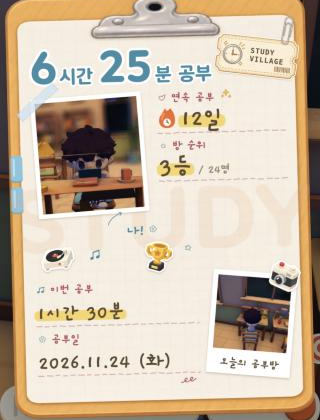
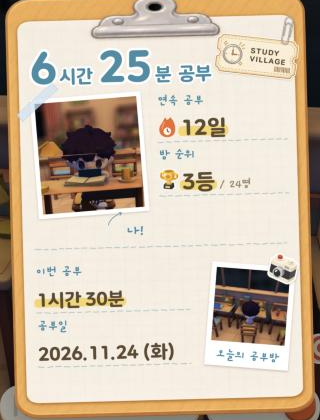
feat(web/study): tidy the study sheet to two fonts and three colors
Feedback said the sheet looked pretty but scattered. It now follows
three rules: round type for numbers and handwriting for labels only;
ink for data, teal for handwriting and decoration, sun highlight under
numbers; and only meaningful decoration (photo tape, ticket and clip,
polaroid camera, the arrow, the rank trophy). Floating stickers,
doodles, the watermark and index tabs are removed, and a hand-drawn
rule splits the top block (photo, streak, rank) from the bottom block
(session, date, polaroid). Unused doodle files are deleted.

diff --git a/frontend/src/feature/study/recap/cardDraw.ts b/frontend/src/feature/study/recap/cardDraw.ts
@@ -24,8 +24,6 @@ const c = {
   lake: '#609baf', lakePattern: '#528ba0', title: '#3e8da6',
   sun: '#f8d66a', sunLedge: '#d9b246', onSun: '#5e4a32',
   white: '#ffffff',
-  /** 손글씨 라벨·낙서 장미색, 워터마크, 인덱스 탭. */
-  rose: '#b4505f', watermark: 'rgba(233,170,120,0.16)', tab: '#86c6de', tabEdge: '#5ea9c6',
 } as const
 
 const fonts = {
@@ -33,7 +31,6 @@ const fonts = {
   round: '"TmoneyRoundWind", "Pretendard Variable", sans-serif',
   /** 손글씨(Gaegu, OFL): 라벨·값·메모. */
   hand: '"Gaegu", "Pretendard Variable", sans-serif',
-  mono: 'ui-monospace, "SF Mono", Menlo, Consolas, monospace',
 } as const
 
 /** 시트(논리 pt) = 클립보드 일러스트(1200×1686)를 3분의 1로. 종이는 x 16–384, y 32–540, 집게는 y 59까지 내려온다. */
@@ -44,19 +41,11 @@ export const sceneSize = { width: 98, height: 98 } as const
 
 const stickerUrls = {
   trophy: '/assets/icons/study_trophy.png',
-  focus: '/assets/icons/study_focus.png',
-  music: '/assets/icons/study_music.png',
   camera: '/assets/icons/study_camera.png',
   clipboard: '/assets/study_recap/clipboard.webp',
   ticket: '/assets/study_recap/ticket.webp',
   paperclip: '/assets/study_recap/paperclip.webp',
   tape: '/assets/study_recap/tape.webp',
-  heart: '/assets/study_recap/doodle_heart.webp',
-  star: '/assets/study_recap/doodle_star.webp',
-  note: '/assets/study_recap/doodle_note.webp',
-  flower: '/assets/study_recap/doodle_flower.webp',
-  sparkle: '/assets/study_recap/doodle_sparkle.webp',
-  scribble: '/assets/study_recap/doodle_scribble.webp',
   arrow: '/assets/study_recap/doodle_arrow.webp',
 } as const
 export type CardAssets = Record<keyof typeof stickerUrls, HTMLImageElement>
@@ -66,7 +55,7 @@ export async function loadCardAssets(recap: StudyRecap): Promise<CardAssets> {
   const sample = [
     webText.recapMe, webText.recapTimeSuffix, webText.recapScene, ...Object.values(webText.recapFields),
     formatStudyDuration(recap.todaySeconds), formatStudyDuration(recap.sessionSeconds), webText.recapBrand,
-    '0123456789.·/!()시간분일등명월화수목금토일STUDY',
+    '0123456789.·/!()시간분일등명월화수목금토일',
   ].join('')
   const load = (src: string) => new Promise<HTMLImageElement>((resolve, reject) => {
     const img = new Image()
@@ -93,31 +82,16 @@ function dateText(studyDate: string): string {
 // ── 시트 ──
 
 export function drawSheet(ctx: CanvasRenderingContext2D, recap: StudyRecap, assets: CardAssets): void {
-  // 클립보드(판·종이·집게) 일러스트, 왼쪽 가장자리 인덱스 탭, 종이 뒤쪽 큰 워터마크.
+  // 규칙 셋(사용자 피드백 2026-11-24 "중구난방"): 글꼴은 숫자=둥근 글꼴, 라벨·메모=손글씨 둘만. 색은 데이터=잉크 갈색,
+  // 손글씨·장식=청록, 강조=숫자 밑 햇살 형광펜 셋만. 장식은 뜻이 있는 것(테이프·티켓 클립·폴라로이드 카메라·화살표·
+  // 순위 트로피)만. 위 칸(사진 + 연속·순위)과 아래 칸(이번 공부·공부일 + 폴라로이드)을 손그림 구분선으로 나눈다.
   ctx.drawImage(assets.clipboard, 0, 0, sheet.width, sheet.height)
-  indexTabs(ctx)
-  ctx.save()
-  ctx.font = `800 112px ${fonts.round}`
-  ctx.textAlign = 'center'
-  ctx.fillStyle = c.watermark
-  ctx.fillText(webText.recapWatermark, 200, 338)
-  ctx.restore()
-
-  // 제목 자리: 오늘 공부한 시간을 가장 크게(둥근 글꼴 호수 청록 + 흰 테두리, 숫자 크게·단위 작게). 집게 아래.
   titleDuration(ctx, recap.todaySeconds, 152, 114, 244)
-
   drawTicket(ctx, assets, 334, 86)
   drawPortrait(ctx, recap, assets)
   drawTopRows(ctx, recap, assets)
-  sticker(ctx, assets.music, 62, 350, 46, -14)
-  if (recap.rank) sticker(ctx, assets.trophy, 196, 350, 42, 10)
-  else sticker(ctx, assets.focus, 196, 352, 38, 10)
-  // 빈자리 손그림 낙서.
-  doodle(ctx, assets.sparkle, 292, 134, 26, 0)
-  doodle(ctx, assets.note, 112, 344, 24, -8)
-  doodle(ctx, assets.star, 236, 338, 22, 12)
-  doodle(ctx, assets.scribble, 232, 514, 30, -4)
-  drawBottomRows(ctx, recap, assets)
+  handDash(ctx, 32, 368, 336, 3)
+  drawBottomRows(ctx, recap)
   drawPolaroid(ctx, recap, assets)
 }
 
@@ -130,8 +104,8 @@ function drawTicket(ctx: CanvasRenderingContext2D, assets: CardAssets, cx: numbe
   ctx.shadowColor = 'rgba(90,55,20,0.22)'; ctx.shadowBlur = 5; ctx.shadowOffsetY = 2
   ctx.drawImage(assets.ticket, -w / 2, -h / 2, w, h)
   ctx.shadowColor = 'transparent'
-  text(ctx, 'STUDY', -w / 2 + w * 0.42, -4, { font: `800 9.5px ${fonts.mono}`, color: c.ink, spacing: 0.8 })
-  text(ctx, 'VILLAGE', -w / 2 + w * 0.42, 7, { font: `800 9.5px ${fonts.mono}`, color: c.ink, spacing: 0.8 })
+  text(ctx, 'STUDY', -w / 2 + w * 0.42, -4, { font: `800 9.5px ${fonts.round}`, color: c.ink, spacing: 0.8 })
+  text(ctx, 'VILLAGE', -w / 2 + w * 0.42, 7, { font: `800 9.5px ${fonts.round}`, color: c.ink, spacing: 0.8 })
   ctx.restore()
   const pw = 18
   ctx.save()
@@ -164,17 +138,15 @@ function drawPortrait(ctx: CanvasRenderingContext2D, recap: StudyRecap, assets: 
   ctx.drawImage(assets.arrow, -13, -13, 26, 26)
   ctx.restore()
   text(ctx, webText.recapMe, cx + 46, by + 28, { font: `700 21px ${fonts.hand}`, color: c.title })
-  doodle(ctx, assets.flower, cx + 82, by + 20, 18, 10)
 }
 
-type Row = { label: string; icon: HTMLImageElement; draw: (x: number, base: number, maxW: number) => void }
+type Row = { label: string; draw: (x: number, base: number, maxW: number) => void }
 
-/** 큰 항목 한 묶음: 낙서 아이콘 + 손글씨 라벨(장미색, 위) → 값(크게, 아래) → 손으로 그은 점선. */
+/** 큰 항목 한 묶음: 손글씨 라벨(청록, 위) → 값(둥근 글꼴 크게, 아래) → 손으로 그은 점선. */
 function rows(ctx: CanvasRenderingContext2D, list: Row[], x: number, right: number, startY: number, rowH: number) {
   list.forEach((r, i) => {
     const y = startY + i * rowH
-    ctx.drawImage(r.icon, x - 2, y + 1, 17, 17)
-    text(ctx, r.label, x + 18, y + 15, { font: `700 17px ${fonts.hand}`, color: c.rose })
+    text(ctx, r.label, x, y + 15, { font: `700 18px ${fonts.hand}`, color: c.title })
     const base = y + rowH - 16
     r.draw(x, base, right - x)
     handDash(ctx, x, right, base + 9, i * 7 + Math.round(startY))
@@ -186,7 +158,7 @@ function handDash(ctx: CanvasRenderingContext2D, x0: number, x1: number, y: numb
   let a = seed * 2654435761 >>> 0
   const rand = () => { a = (a * 1103515245 + 12345) >>> 0; return a / 4294967296 }
   ctx.save()
-  ctx.strokeStyle = 'rgba(180,80,95,0.42)'; ctx.lineWidth = 1.3; ctx.lineCap = 'round'
+  ctx.strokeStyle = 'rgba(62,141,166,0.38)'; ctx.lineWidth = 1.3; ctx.lineCap = 'round'
   let x = x0
   while (x < x1) {
     const len = 5 + rand() * 3
@@ -198,39 +170,40 @@ function handDash(ctx: CanvasRenderingContext2D, x0: number, x1: number, y: numb
 }
 
 function drawTopRows(ctx: CanvasRenderingContext2D, recap: StudyRecap, assets: CardAssets) {
-  const big = `700 34px ${fonts.hand}`
+  const big = `800 28px ${fonts.round}`
   const list: Row[] = [
-    { label: webText.recapFields.streak, icon: assets.heart, draw: (x, b) => {
+    { label: webText.recapFields.streak, draw: (x, b) => {
       flame(ctx, x, b - 25, 28, recap.streakDays > 0)
       highlight(ctx, t('studyStatsStreakValue', { count: recap.streakDays }), x + 30, b, big, recap.streakDays > 0 ? c.ink : c.inkSoft)
     } },
   ]
   if (recap.rank) {
     const rank = recap.rank
-    list.push({ label: webText.recapFields.rank, icon: assets.star, draw: (x, b) => {
+    list.push({ label: webText.recapFields.rank, draw: (x, b) => {
+      ctx.drawImage(assets.trophy, x - 2, b - 28, 30, 30)
       const num = `${rank.position}${webText.recapRankUnit}`
-      highlight(ctx, num, x, b, big)
-      text(ctx, webText.recapRankTotal(rank.total), x + measure(ctx, num, big) + 8, b, { font: `700 17px ${fonts.hand}`, color: c.inkSoft })
+      highlight(ctx, num, x + 30, b, big)
+      text(ctx, webText.recapRankTotal(rank.total), x + 30 + measure(ctx, num, big) + 6, b, { font: `700 17px ${fonts.hand}`, color: c.inkSoft })
     } })
   }
-  rows(ctx, list, 200, 372, 128, 64)
+  rows(ctx, list, 200, 372, 132, 72)
 }
 
-function drawBottomRows(ctx: CanvasRenderingContext2D, recap: StudyRecap, assets: CardAssets) {
-  const font = `700 28px ${fonts.hand}`
+function drawBottomRows(ctx: CanvasRenderingContext2D, recap: StudyRecap) {
+  const font = `800 24px ${fonts.round}`
   const list: Row[] = [
-    { label: webText.recapFields.session, icon: assets.note, draw: (x, b) => highlight(ctx, formatStudyDuration(recap.sessionSeconds), x, b, font) },
-    { label: webText.recapFields.date, icon: assets.flower, draw: (x, b, w) => text(ctx, ellipsize(ctx, dateText(recap.studyDate), font, w), x, b, { font, color: c.ink }) },
+    { label: webText.recapFields.session, draw: (x, b) => highlight(ctx, formatStudyDuration(recap.sessionSeconds), x, b, font) },
+    { label: webText.recapFields.date, draw: (x, b, w) => text(ctx, ellipsize(ctx, dateText(recap.studyDate), font, w), x, b, { font, color: c.ink }) },
   ]
-  rows(ctx, list, 32, 248, 380, 66)
+  rows(ctx, list, 32, 236, 356, 72)
 }
 
 /** 폴라로이드: 3인칭으로 본 오늘의 공부방, 아래 여백에 글씨, 카메라 스티커. */
 function drawPolaroid(ctx: CanvasRenderingContext2D, recap: StudyRecap, assets: CardAssets) {
   const w = sceneSize.width + 14
   const h = sceneSize.height + 40
-  const cx = 318
-  const cy = 442
+  const cx = 316
+  const cy = 432
   ctx.save()
   ctx.translate(cx, cy); ctx.rotate((6 * Math.PI) / 180)
   ctx.save()
@@ -239,7 +212,7 @@ function drawPolaroid(ctx: CanvasRenderingContext2D, recap: StudyRecap, assets: 
   ctx.fillRect(-w / 2, -h / 2, w, h)
   ctx.restore()
   photo(ctx, recap.scenePhoto, -sceneSize.width / 2, -h / 2 + 7, sceneSize.width, sceneSize.height)
-  text(ctx, webText.recapScene, 0, h / 2 - 11, { font: `700 16px ${fonts.hand}`, color: c.ink, align: 'center' })
+  text(ctx, webText.recapScene, 0, h / 2 - 11, { font: `700 17px ${fonts.hand}`, color: c.title, align: 'center' })
   ctx.restore()
   sticker(ctx, assets.camera, cx + 46, cy - 62, 40, 14)
 }
@@ -343,26 +316,6 @@ function sticker(ctx: CanvasRenderingContext2D, img: HTMLImageElement, cx: numbe
   ctx.shadowColor = 'rgba(90,55,20,0.25)'; ctx.shadowBlur = 6; ctx.shadowOffsetY = 3
   ctx.drawImage(img, -size / 2, -size / 2, size, size)
   ctx.restore()
-}
-
-/** 손그림 낙서를 기울여 얹는다(그림자 없음: 종이에 그린 것). */
-function doodle(ctx: CanvasRenderingContext2D, img: HTMLImageElement, cx: number, cy: number, size: number, deg: number) {
-  ctx.save()
-  ctx.translate(cx, cy); ctx.rotate((deg * Math.PI) / 180)
-  ctx.drawImage(img, -size / 2, -size / 2, size, size)
-  ctx.restore()
-}
-
-/** 판 왼쪽 가장자리의 하늘색 인덱스 탭 두 개(종이 아래에 끼운 느낌으로 판 위에만). */
-function indexTabs(ctx: CanvasRenderingContext2D) {
-  for (const y of [210, 252]) {
-    ctx.fillStyle = c.tabEdge
-    ctx.beginPath(); ctx.roundRect(2, y + 2, 16, 34, 5); ctx.fill()
-    ctx.fillStyle = c.tab
-    ctx.beginPath(); ctx.roundRect(2, y, 16, 34, 5); ctx.fill()
-    ctx.fillStyle = 'rgba(255,255,255,0.45)'
-    ctx.beginPath(); ctx.roundRect(5, y + 4, 3, 24, 1.5); ctx.fill()
-  }
 }
 
 /** 마스킹 테이프 일러스트를 기울여 붙인다. */

diff --git a/frontend/src/l10n/web_ko.ts b/frontend/src/l10n/web_ko.ts
@@ -30,7 +30,6 @@ export const webText = {
   // 공부를 끝낸 뒤 "오늘의 공부" 시트(앱에 없는 화면, 사용자 결정 2026-11-23).
   recapMe: '나!',
   recapTimeSuffix: '공부',
-  recapWatermark: 'STUDY',
   recapScene: '오늘의 공부방',
   recapFields: {
     streak: '연속 공부',

diff --git a/docs/design-parity/exceptions.md b/docs/design-parity/exceptions.md
@@ -22,6 +22,6 @@
 - **3D 방 부드러운 룩(기본)**: 셀 셰이딩 단 대신 넓은 감싸기 조명(빛 쪽 크림·그늘 쪽 라벤더)과 반구 조명, 화면 공간 접촉 그늘(½ 해상도 8탭, 높은 단계만), 그 자리 색을 어둡게 한 외곽선, 파스텔 보정(생기·부드러운 어깨·분할 톤). 예전 카툰 룩은 `?look=toon`, 앱 그림은 `?look=app`. 비교: `room_v2/soft_look_vs_toon.jpg`. 감성 보강(같은 날): 창밖 하늘에서 모은 빛줄기(½ 해상도 40탭, 높은 단계만), 먼 곳 공기 원근(위 하늘빛·아래 크림), 살구빛 할레이션, 오른쪽 위 빛샘, 비네트 0.18. `room_v2/mood_pass.jpg`(이전 / 오후 16시 / 밤). 개발 빌드는 `?hour=16`으로 시각을 고정해 본다. 사용자 결정(2026-11-23 "셰이더 대격변").
 - **3D 방 선명한 룩(기본, 같은 날 교체)**: 사용자 참고 이미지(게임 아트 거리)를 따라 따뜻한 해·푸른 그늘의 좁고 부드러운 조명 경계, 채도 +22%·S 곡선 대비, 그늘 푸름·빛 따뜻함 분할 톤, 푸른 접촉 그늘, 아주 옅은 색 외곽선, 공기·빛샘·빛줄기·그레인 없음, 비네트 0.12. 몽환 파스텔은 `?look=soft`. 비교: `room_v2/vivid_look.jpg`(soft 오후 / vivid 오후 / vivid 밤).
 - **3인칭 카메라 자유 조작**: 앱은 좌우로 끌어 내 자리 둘레만 돈다. 웹은 위아래로 끌어 내려다보는 각도(기본 30° ±, 5–80°)도 바꾸고, 휠·두 손가락 벌리기로 거리(0.65–2.2배)를 바꾸며, 두 번 누르면 기본 시점으로 돌아간다. 카메라는 천장(3.9m) 아래로 거리를 줄인다. 사용자 결정(2026-11-23).
-- **공부 요약("오늘의 공부" 시트, 앱에 없는 화면)**: 스토리에 올려 오늘 공부한 결과를 자랑하는 클립보드 프로필 시트 한 장. 구성은 사용자가 준 클립보드 프로필 레퍼런스(2026-11-23)를 따르되 캐릭터·로고·문구는 쓰지 않는다: 나무 판과 금속 집게, 모눈 크림 종이(판·집게·종이·티켓·클립·테이프는 Codex로 그린 일러스트, `docs/sources.md`; 판 위쪽 여백은 사용자 요청으로 얇게 다시 그림), 제목 자리에 오늘 공부한 시간("6시간 25분 공부", 둥근 글꼴 호수 청록 + 흰 테두리, 숫자 크게·단위와 "공부" 작게), 내부 요소는 레퍼런스처럼 손글씨(Gaegu)·장미색 라벨·Codex 손그림 낙서 아이콘(하트·별·음표·꽃·반짝이·낙서·화살표)·손으로 그은 점선·큰 연한 STUDY 워터마크·판 왼쪽 하늘색 인덱스 탭, 티켓 스티커(STUDY VILLAGE·날짜 바코드)와 클립, 마스킹 테이프로 붙인 정면 프로필 사진과 사진 아래 "나!" 화살표, 오른쪽 큰 항목(라벨 위·값 아래, 햇살 형광펜: 연속 공부(불꽃)·방 순위(서버 값이 있을 때만)), 앱 스티커(LP·트로피(순위 있을 때) 또는 과녁), 아래 큰 항목(이번 공부·공부일). 이름·목표 달성·과목은 넣지 않는다(사용자 결정), 3인칭으로 찍은 "오늘의 공부방" 폴라로이드와 카메라 스티커(앱 스티커 아트, 원본 `assets/icons/study_*.png`). 사진은 끝내기 직전에 3D 방에서 두 장 찍는다(정면은 벽이 가리지 않게 가까운 면을 사람 앞 0.75m까지 당김). 사진이 없으면 시계 무늬 빈 칸. 홀로그램 포일은 종이 시트와 맞지 않아 뺐다. 방 순위는 서버 랭킹(계획 5단계)이 없어 실제 흐름에서는 줄을 숨기고 개발용 표본 주소에서만 채운다. 공부방 위에 시트와 섬 단추(이미지 저장·공유(지원 시)·닫기)만 뜨고 방은 흐리지 않고 검정 35%로만 어둡게 한다. 저장 이미지(스토리 1080×1920)는 시계 무늬 호수 위 같은 시트 + StudyVillage. 섬 팔레트 낮 값으로 고정. 개발 빌드 전용 상시 확인 주소: `/?recap=goal`, `/?recap=more`, `/?recap=plain` — `recap/useRecapDemo.ts`. 캡처: `recap/sheet_modal.png`, `recap/sheet_story_no_photo.png`(사진 없는 상태). 사용자 결정(2026-11-23).
+- **공부 요약("오늘의 공부" 시트, 앱에 없는 화면)**: 스토리에 올려 오늘 공부한 결과를 자랑하는 클립보드 프로필 시트 한 장. 구성은 사용자가 준 클립보드 프로필 레퍼런스(2026-11-23)를 따르되 캐릭터·로고·문구는 쓰지 않는다. 판·집게·모눈 종이·티켓·클립·테이프·화살표는 Codex로 그린 일러스트(`docs/sources.md`), 글자·사진·스티커는 캔버스로 얹는다. 정리 규칙(사용자 피드백 2026-11-24 "예쁜데 중구난방"): 글꼴은 숫자=둥근 글꼴, 라벨·메모=손글씨(Gaegu) 둘만. 색은 데이터=잉크 갈색, 손글씨·장식=청록, 강조=숫자 밑 햇살 형광펜 셋만. 장식은 뜻이 있는 것(사진 테이프·티켓과 클립·폴라로이드 카메라 스티커·"나!" 화살표·방 순위 트로피)만 두고 떠 있던 스티커·낙서·워터마크·인덱스 탭은 뺐다. 배치: 제목 자리에 "6시간 25분 공부"(둥근 글꼴 청록 + 흰 테두리, 숫자 크게·단위와 "공부" 작게), 위 칸은 정면 프로필 사진 + 연속 공부(불꽃)·방 순위(트로피, 서버 값이 있을 때만), 손그림 구분선, 아래 칸은 이번 공부·공부일 + 3인칭 "오늘의 공부방" 폴라로이드. 이름·목표·과목은 넣지 않는다(사용자 결정). 사진은 끝내기 직전에 3D 방에서 두 장 찍는다(정면은 벽이 가리지 않게 가까운 면을 사람 앞 0.75m까지 당김). 사진이 없으면 시계 무늬 빈 칸. 방 순위는 서버 랭킹(계획 5단계)이 없어 실제 흐름에서는 줄을 숨기고 개발용 표본 주소에서만 채운다. 공부방 위에 시트와 섬 단추(이미지 저장·공유(지원 시)·닫기)만 뜨고 방은 흐리지 않고 검정 35%로만 어둡게 한다. 저장 이미지(스토리 1080×1920)는 시계 무늬 호수 위 같은 시트 + StudyVillage. 섬 팔레트 낮 값으로 고정. 개발 빌드 전용 상시 확인 주소: `/?recap=goal`, `/?recap=more`, `/?recap=plain` — `recap/useRecapDemo.ts`. 캡처: `recap/sheet_modal.png`.
 - **공부방 태그·추천(앱에 없는 기능)**: 공부방 목록 맨 위에 "나와 같은 공부" 칸(밤하늘 위 흰 제목, 내 태그 알약, 오른쪽 "태그 수정" 섬 단추, 아래 같은 카드 2열). 내 태그가 없으면 같은 자리에 종이 카드 안내와 "태그 고르기" 햇살 단추. 겹치는 방이 없으면 빈 상태 그림 대신 한 줄 안내(방이 많아 보여야 해서 큰 빈 그림을 두지 않음). 카드에는 소개 아래 초록 `#태그` 한 줄. "내 공부 태그" 시트는 과목 고르기 시트(PaperSheet·턱 있는 알약 칩·둥근 입력칸)를 따르고, 고른 태그는 초록 알약. 문구는 `l10n/web_tags_ko.ts`(새로 씀). 검색 중에는 추천 칸을 숨긴다. 캡처: `tags/rooms_recommended_mobile.jpg`, `tags/my_tags_sheet.jpg`. 사용자 결정(2026-11-23, `docs/plan/study-tags.md`).
 - **월드 고정 하늘·가까운 면**: 앱은 하늘을 화면 한 장으로 그려 카메라를 돌려도 달·해가 화면에 붙어 있다. 웹은 카메라를 따라다니는 하늘 구(`three/skyDome.ts`)에 그려 달·해·별이 창문과 함께 움직이고(해·달은 자리들이 보는 쪽 하늘을 가로지름), 카메라 가까운 면을 0.1→0.3m, 먼 면을 80m로 바꿔 창틀·문틀·벽·그림 사이 깊이 경쟁을 줄였다. 사용자 버그 신고(2026-11-23).

diff --git a/docs/sources.md b/docs/sources.md
@@ -25,7 +25,7 @@ PocketTime에서 가져온 코드 의미·자산·문구. 원본 커밋: PocketT
 | `frontend/src/feature/study/room3d/{StudyRoom3dView,StudyRoomSky}.tsx`, `skyStars.json` | `widgets/study_room_3d_view.dart`, `widgets/study_room_sky.dart` | f574f242 | 별 위치는 Dart `Random`으로 뽑은 값 |
 | `frontend/src/feature/study/timer/timerStore.ts` | `timer/domain/study_timeline.dart`(구간 합) | f574f242 | 진실은 서버 세션(결정 12) |
 | `frontend/public/assets/icons/nav/study_tab_*.png` | Codex 이미지 생성(2026-11-23, 공부방은 푸른 지구 `tab_rooms_globe.png`). 화풍 참고: `icons/study_{shop,trophy,music,camera,chat}.png`, 주제 참고: PocketTime `assets/icons/nav/study_tab_*.png` | — | 512px 원본·프롬프트는 `tool/assets/tab_icons_codex/`, 200px로 줄여 씀 |
-| `frontend/public/assets/study_recap/doodle_{heart,star,note,flower,sparkle,scribble,arrow}.webp` | Codex 이미지 생성(2026-11-23, 공부 요약 시트 손그림 낙서) | — | 원본 PNG·프롬프트(`doodle_prompt.txt`)는 `tool/assets/recap_codex/`, cwebp q90 |
+| `frontend/public/assets/study_recap/doodle_arrow.webp` | Codex 이미지 생성(2026-11-23, 공부 요약 시트 손그림 낙서 7종 중 화살표만 씀) | — | 원본 PNG 7종·프롬프트(`doodle_prompt.txt`)는 `tool/assets/recap_codex/`, cwebp q90 |
 | 글꼴 Gaegu(`@fontsource/gaegu` 5.3.0, OFL-1.1) | npm | — | 공부 요약 시트 손글씨 라벨·값 |
 | `frontend/public/assets/study_recap/{clipboard,ticket,paperclip,tape}.webp` | Codex 이미지 생성(2026-11-23, 공부 요약 시트). 화풍 참고: `icons/study_{trophy,camera}.png`, 구성 참고: 사용자가 준 클립보드 프로필 레퍼런스(캐릭터·로고 제외) | — | 원본 PNG·프롬프트는 `tool/assets/recap_codex/`, cwebp q90으로 줄여 씀. 클립보드는 위 여백을 줄여 다시 그림(`clipboard2_prompt.txt`, 이전 그림을 참고로) |
 | `frontend/src/feature/study/stats/*` | `widgets/study_stats_view.dart`, `widgets/streak_flame.dart`, `timer/domain/study_stats.dart`(진행 중 몫) | f574f242 | 의미·값 이식, 불꽃은 정적 SVG |
